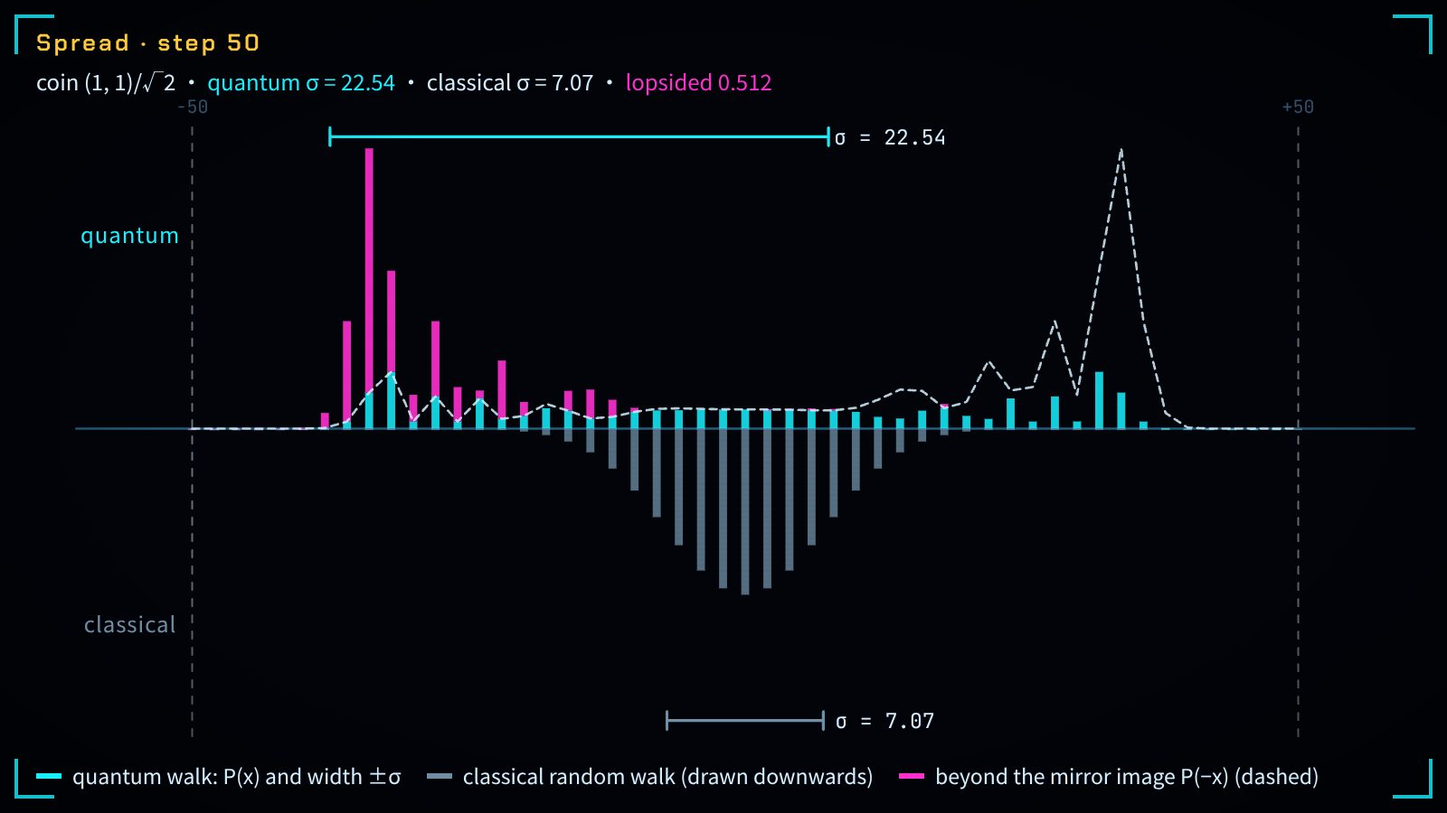
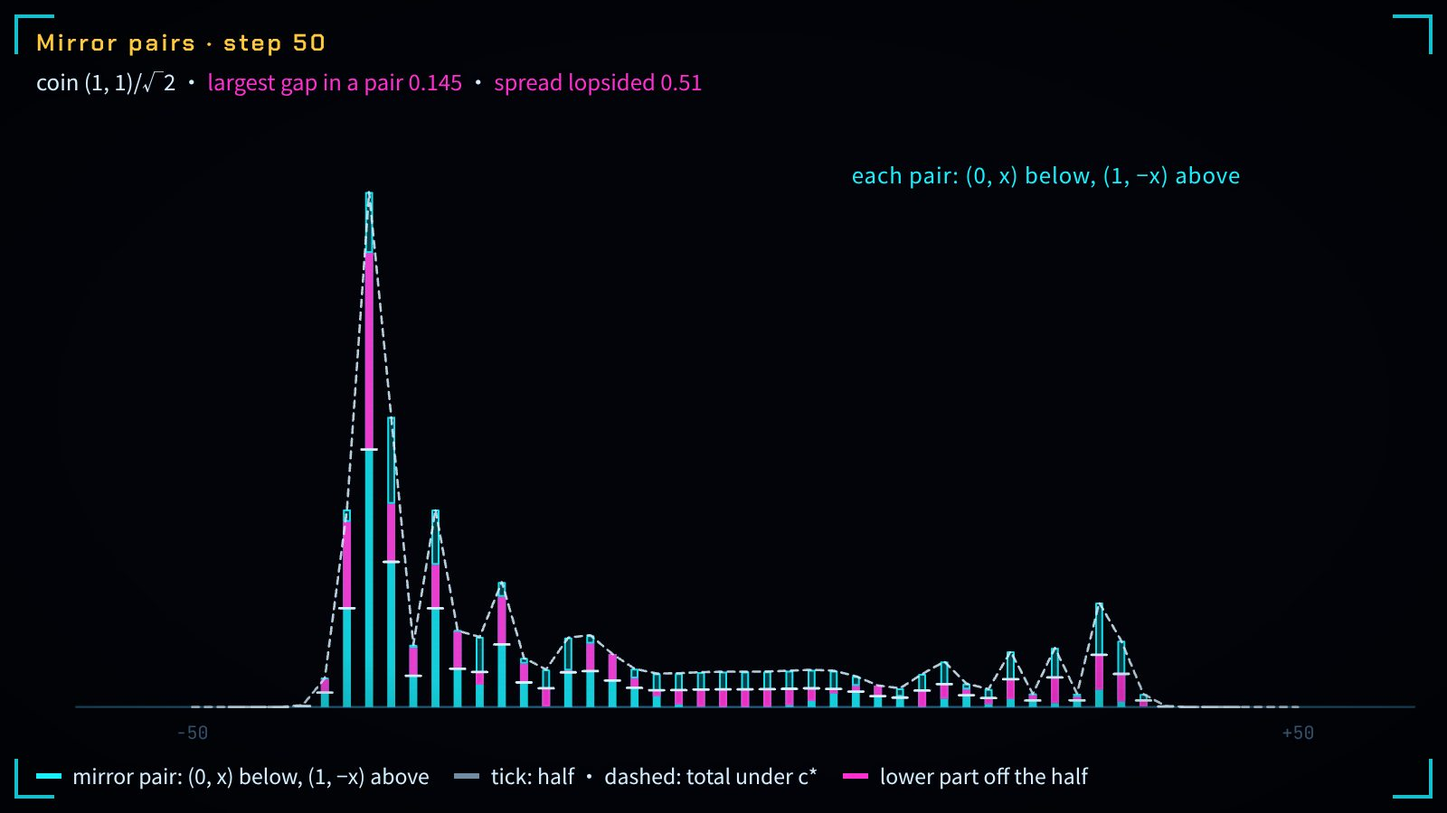
ch16: fold the ten-step walk card into fifty, a mirror-pair scene for the real coin, ring before the lemma, length-1 polytope card after the orbit item, full polytope lab at the chapter end, recurrence rhombus on the Chebyshev figure; card tables for chapters 15-16

diff --git a/books/quantum-geometry/viz/walk-spreading/main.js b/books/quantum-geometry/viz/walk-spreading/main.js
@@ -20,11 +20,12 @@
   /** The representative of x mod p in (−p/2, p/2]. */
   const rep = (x, p) => { const r = ((x % p) + p) % p; return r > p / 2 ? r - p : r; };
 
-  let RUN = null, runKey = '';
+  const RUNS = new Map();
   /** Every step 0 … NMAX for the current p and coin: quantum amplitudes (re, im per coin) and classical probabilities. */
-  function run() {
-    const c = coin(), p = S.p, key = `${p}|${c.join(',')}`;
-    if (key === runKey) return RUN;
+  const run = () => runFor(S.p, coin());
+  function runFor(p, c) {
+    const key = `${p}|${c.join(',')}`;
+    if (RUNS.has(key)) return RUNS.get(key);
     let re0 = new Float64Array(p), im0 = new Float64Array(p), re1 = new Float64Array(p), im1 = new Float64Array(p), cl = new Float64Array(p);
     re0[0] = c[0]; im0[0] = c[1]; re1[0] = c[2]; im1[0] = c[3]; cl[0] = 1;
     const steps = [];
@@ -39,9 +40,16 @@
       }
       re0 = a0; im0 = b0; re1 = a1; im1 = b1; cl = c2;
     }
-    RUN = { p, coin: c, steps };
-    runKey = key;
-    return RUN;
+    const R = { p, coin: c, steps };
+    if (RUNS.size > 24) RUNS.clear();
+    RUNS.set(key, R);
+    return R;
+  }
+  const STAR = [R2, 0, 0, R2];
+  /** The mirror pairs of one step: for each position x, [x, |ψ(0, x)|², |ψ(1, −x)|², the same pair's total under c*]. */
+  function pairsAt(n) {
+    const F = run().steps[n], G = runFor(S.p, STAR).steps[n], p = S.p;
+    return F.xs.map((x, i) => { const j = (p - i) % p; return [x, F.z0[i], F.z1[j], G.z0[i] + G.z1[j]]; });
   }
   /** What the page shows about one step: distributions by position, widths, mirror balance. */
   function facts(p, re0, im0, re1, im1, cl, n) {
@@ -133,6 +141,38 @@
     }
   }
 
+  /* the mirror pairs (0, x) and (1, −x): one bar per x, the two modes stacked, the half marked */
+  function drawPairs(W, H, F) {
+    const p = S.p, half = Math.floor(p / 2) + 0.5, n = F.n, thumb = TRV.thumbMode, pr = pairsAt(n);
+    const ymax = Math.max(1e-3, ...pr.map((r) => Math.max(r[1] + r[2], r[3]))) * 1.15;
+    const g = kit.plot($('cv'), { x: [-half, half], y: [-ymax * 0.06, ymax], pad: frame(W, H), clear: false });
+    const bw = Math.max(1, Math.min(14, g.scale * 0.72)), ctx = g.ctx;
+    g.line([[-half, 0], [half, 0]], P.lineHot, { width: 1.2 * TH });
+    const box = (x, y0, y1, color, alpha, stroke) => {
+      const a = g.Y(y0), b = g.Y(y1), top = Math.min(a, b), h = Math.abs(a - b);
+      if (h < 0.3) return;
+      ctx.globalAlpha = alpha; ctx.fillStyle = color; ctx.fillRect(g.X(x) - bw / 2, top, bw, h);
+      if (stroke) { ctx.globalAlpha = 0.9; ctx.strokeStyle = color; ctx.lineWidth = TH; ctx.strokeRect(g.X(x) - bw / 2 + 0.5, top + 0.5, bw - 1, h - 1); }
+      ctx.globalAlpha = 1;
+    };
+    pr.forEach(([x, a, b]) => {
+      const T = a + b;
+      if (T < 1e-9) return;
+      box(x, 0, a, P.cyan, 0.85);
+      box(x, a, T, P.cyan, 0.25, true);
+      if (Math.abs(a - T / 2) > 1e-9) box(x, a, T / 2, P.magenta, 0.9);
+      const yh = g.Y(T / 2), xc = g.X(x);
+      ctx.strokeStyle = P.ink; ctx.lineWidth = 1.4 * TH; ctx.beginPath(); ctx.moveTo(xc - bw / 2 - 2, yh); ctx.lineTo(xc + bw / 2 + 2, yh); ctx.stroke();
+    });
+    // the totals under c*: the same outline whatever the coin
+    const sil = pr.filter((r) => 2 * n >= p || (Math.abs(r[0]) <= n && (r[0] - n) % 2 === 0)).sort((u, v) => u[0] - v[0]).map((r) => [r[0], r[3]]);
+    g.line(sil, P.ink, { width: 1.3 * TH, dash: [4, 3], alpha: 0.85 });
+    if (!thumb) {
+      tagAt('pl', g, half * 0.45, ymax * 0.9, L('每一对：(0, x) 在下，(1, −x) 在上', 'each pair: (0, x) below, (1, −x) above'), 'raw cy', 0, 0);
+      if (2 * n < p && n > 0) { tagAt('cone', g, n, 0, `+${n}`, 'tick', 0, 14); tagAt('cone-', g, -n, 0, `−${n}`, 'tick', 0, 14); }
+    }
+  }
+
   function drawWidth(W, H) {
     const R = run(), n = stepN(), thumb = TRV.thumbMode;
     const ymax = Math.max(...R.steps.map((s) => Math.max(s.sigmaQ, s.sigmaC))) * 1.12 || 1;
@@ -155,7 +195,7 @@
   function drawStage() {
     const cv = $('cv'), W = cv.clientWidth, H = cv.clientHeight;
     stage.begin();
-    if (S.scene === 'width') drawWidth(W, H); else drawDist(W, H, now());
+    if (S.scene === 'width') drawWidth(W, H); else if (S.scene === 'pairs') drawPairs(W, H, now()); else drawDist(W, H, now());
     stage.end();
   }
 
@@ -173,8 +213,10 @@
   /* ---------- readouts, HUD, legend ---------- */
   function drawText() {
     const F = now(), n = F.n, ratio = n > 0 ? F.sigmaQ / F.sigmaC : null;
-    $('hudBig').innerHTML = S.scene === 'width' ? L(`宽度 · 走到第 ${n} 步`, `Width · step ${n}`) : L(`分布 · 第 ${n} 步`, `Spread · step ${n}`);
-    $('hudSub').innerHTML = S.scene === 'width'
+    $('hudBig').innerHTML = S.scene === 'width' ? L(`宽度 · 走到第 ${n} 步`, `Width · step ${n}`) : S.scene === 'pairs' ? L(`镜像对 · 第 ${n} 步`, `Mirror pairs · step ${n}`) : L(`分布 · 第 ${n} 步`, `Spread · step ${n}`);
+    $('hudSub').innerHTML = S.scene === 'pairs'
+      ? `${L('硬币', 'coin')} ${coinName()} · ${F.pairGap < 1e-12 ? L('每一对都均分', 'every pair split evenly') : `<span class="c-mg">${L('一对里最大的差', 'largest gap in a pair')} ${fix(F.pairGap, 3)}</span>`} · <span class="c-mg">${L('分布失衡', 'spread lopsided')} ${fix(F.imbalance, 2)}</span>`
+      : S.scene === 'width'
       ? `<span class="c-cy">${L('量子', 'quantum')} σ = ${fix(F.sigmaQ, 2)}</span> · ${L('经典', 'classical')} σ = ${fix(F.sigmaC, 2)}${n > 0 ? ` · ${L('比', 'ratio')} ${fix(ratio, 2)}` : ''}`
       : `${L('硬币', 'coin')} ${coinName()} · <span class="c-cy">${L('量子', 'quantum')} σ = ${fix(F.sigmaQ, 2)}</span> · ${L('经典', 'classical')} σ = ${fix(F.sigmaC, 2)}${F.imbalance > 1e-9 ? ` · <span class="c-mg">${L('失衡', 'lopsided')} ${fix(F.imbalance, 3)}</span>` : ''}`;
     $('roRatio').textContent = ratio == null ? '—' : fix(ratio, 2);
@@ -190,7 +232,9 @@
       : L(`这枚硬币没有均分镜像对：最大的一对差 ${fix(F.pairGap, 3)}，分布偏向${F.meanQ < 0 ? '左' : '右'}边，平均位置 ${fix(F.meanQ, 2)}。`, `This coin does not split the mirror pairs evenly: the largest gap is ${fix(F.pairGap, 3)}, and the distribution leans ${F.meanQ < 0 ? 'left' : 'right'}, with mean position ${fix(F.meanQ, 2)}.`);
     $('pillN').querySelector('strong').textContent = String(n);
     $('pillRatio').querySelector('strong').textContent = ratio == null ? '—' : fix(ratio, 2);
-    const items = S.scene === 'width'
+    const items = S.scene === 'pairs'
+      ? [['cy', '镜像对：(0, x) 在下，(1, −x) 在上', 'mirror pair: (0, x) below, (1, −x) above'], ['dm', '短横：一半 · 虚线：c* 下的总高', 'tick: half · dashed: total under c*'], ['mg', '下段离一半的差', 'lower part off the half']]
+      : S.scene === 'width'
       ? [['cy', '量子游走的宽度', 'width of the quantum walk'], ['dm', '经典随机游走的宽度', 'width of the classical walk'], ['am', '当前的步数', 'the current step']]
       : [['cy', '量子游走：P(x) 与宽度 ±σ', 'quantum walk: P(x) and width ±σ'], ['dm', '经典随机游走（向下画）', 'classical random walk (drawn downwards)']]
         .concat(F.imbalance > 1e-9 ? [['mg', '比镜像 P(−x) 多出的部分（虚线）', 'beyond the mirror image P(−x) (dashed)']] : []);
@@ -220,17 +264,15 @@
 
   /* ---------- experiment cards ---------- */
   const PRESETS = {
-    ten: { scene: 'dist', p: 121, w: 0.5, phi: 90, n: 10 },
     fifty: { scene: 'dist', p: 121, w: 0.5, phi: 90, n: 50 },
     width: { scene: 'width', p: 121, w: 0.5, phi: 90, n: 60 },
-    coin: { scene: 'dist', p: 121, w: 0.5, phi: 0, n: 50 },
+    coin: { scene: 'pairs', p: 121, w: 0.5, phi: 0, n: 50 },
     ring: { scene: 'dist', p: 9, w: 0.5, phi: 90, n: 20 }
   };
   const NOTES = {
-    ten: ['从原点出发、硬币取 c*，走 10 步：上方青色的量子分布左右对称，最高的两根柱在 ±6，全都落在虚线 ±10 之内；下方灰色的经典分布堆在中间。青色括号 ±σ 的 σ = 5.47，灰色的只有 √10 = 3.16。', 'From the origin with the coin c*, ten steps: above, the cyan quantum distribution is symmetric, its two tallest bars at ±6 and all of it inside the dashed lines ±10; below, the grey classical distribution piles up in the middle. The cyan bracket ±σ has σ = 5.47, the grey one only √10 = 3.16.'],
-    fifty: ['走 50 步：青色的两个尖峰已经跑到 ±34，灰色的钟形只铺开到 ±7 左右。量子宽度 σ = 27.07，经典 σ = √50 = 7.07，差了 3.83 倍。', 'Fifty steps: the two cyan peaks have run out to ±34, while the grey bell spreads only to about ±7. Quantum width σ = 27.07, classical σ = √50 = 7.07: 3.83 times apart.'],
+    fifty: ['从原点出发、硬币取 c*，走 50 步：上方青色的量子分布左右对称，两个尖峰已经跑到 ±34，全都落在虚线 ±50 之内；下方灰色的经典钟形只铺开到 ±7 左右。量子宽度 σ = 27.07，经典 σ = √50 = 7.07，差了 3.83 倍。', 'From the origin with the coin c*, fifty steps: above, the cyan quantum distribution is symmetric, its two peaks already out at ±34 and all of it inside the dashed lines ±50; below, the grey classical bell spreads only to about ±7. Quantum width σ = 27.07, classical σ = √50 = 7.07: 3.83 times apart.'],
     width: ['宽度随步数：青色的量子宽度是一条直线（σ ÷ n 停在 0.54 附近），灰色的经典宽度是 √n 的抛物线。走到 60 步是 32.5 对 7.75：在一条线上，两者之差是平方关系，不是指数。', 'Width against the steps: the cyan quantum width is a straight line (σ ÷ n stays near 0.54), the grey classical width the parabola √n. At 60 steps it is 32.5 against 7.75: on a line the gap between them is a square, not an exponential.'],
-    coin: ['换成实硬币 (1, 1)/√2，同样一半一半，只是没有那个 i：走 50 步，青色的分布偏向左边；虚线是它的镜像 P(−x) 的轮廓，品红是比镜像多出的部分，合计 0.51。', 'A real coin (1, 1)/√2, half and half as before but without the i: after fifty steps the cyan distribution leans left; the dashed outline is its mirror image P(−x), and magenta is what it has beyond them, 0.51 in all.'],
+    coin: ['证明里的那一对：每个位置 x 一根柱，下段是模式 (0, x) 的概率，上段是镜像模式 (1, −x) 的。换成实硬币 (1, 1)/√2，同样一半一半，只是没有那个 i，走 50 步：每一对的总高仍正好落在虚线上（虚线是 c* 下同一对的总高），可两段一高一低，品红是下段离一半的差，最大的一对两段相差 0.145。换回 c* 时两段等高，品红消失。', 'The pair from the proof: one bar per position x, the lower part the probability of the mode (0, x), the upper part that of its mirror mode (1, −x). With the real coin (1, 1)/√2, half and half as before but without the i, after fifty steps every pair still reaches exactly the dashed outline (the same pair\'s total under c*), but its two parts are unequal: magenta is how far the lower part is from the half, and the largest gap within a pair is 0.145. With c* the two parts are equal and the magenta is gone.'],
     ring: ['圈上只有 9 个点，硬币取 c*，走 20 步：游走早已绕回来，青色的柱和灰色的柱一样摊满了整圈，不再有往外跑的前沿；但青色的柱仍然左右成镜像，没有品红。', 'A cycle of only nine points, coin c*, twenty steps: the walk has long since wrapped round, and the cyan bars, like the grey ones, cover the whole ring with no front running outwards; yet the cyan bars are still mirror images of each other, with no magenta.']
   };
   let booting = true;
@@ -260,7 +302,7 @@
       return { scene: S.scene, p: S.p, w: S.w, phi: S.phi, coin: run().coin.slice(), t: clock.t, n: F.n, max: clock.max, playing: clock.playing, preset: cards.current,
         xs: F.xs.slice(), q: F.q.slice(), k: F.k.slice(), z0: F.z0.slice(), z1: F.z1.slice(),
         sigmaQ: F.sigmaQ, sigmaC: F.sigmaC, meanQ: F.meanQ, imbalance: F.imbalance, pairGap: F.pairGap, total: F.total, ctotal: F.ctotal,
-        widths: run().steps.map((s) => [s.sigmaQ, s.sigmaC]), imbalances: run().steps.map((s) => s.imbalance) };
+        widths: run().steps.map((s) => [s.sigmaQ, s.sigmaC]), imbalances: run().steps.map((s) => s.imbalance), pairs: pairsAt(F.n) };
     },
     seek: (t) => { clock.pause(); stopAt = null; clock.set(t); }
   };

diff --git a/books/quantum-geometry/viz/walk-spreading/index.html b/books/quantum-geometry/viz/walk-spreading/index.html
@@ -36,10 +36,9 @@
     <section class="panel sec">
       <h2><span class="zh">实验卡带</span><span class="en">Experiments</span><span class="aside">PRESETS</span></h2>
       <div class="presets cards" id="presets">
-        <button class="preset" data-preset="ten" aria-pressed="false"><span class="code">TEN-STEPS</span><span class="cn zh">走 10 步：两侧各一个尖峰</span><span class="cn en">Ten steps: a peak on either side</span></button>
         <button class="preset" data-preset="fifty" aria-pressed="false"><span class="code">FIFTY-STEPS</span><span class="cn zh">走 50 步：宽度差近四倍</span><span class="cn en">Fifty steps: nearly four times as wide</span></button>
         <button class="preset" data-preset="width" aria-pressed="false"><span class="code">WIDTH</span><span class="cn zh">宽度：一条直线，一条 √n</span><span class="cn en">Width: a straight line and a √n</span></button>
-        <button class="preset" data-preset="coin" aria-pressed="false"><span class="code">REAL-COIN</span><span class="cn zh">硬币 (1, 1)/√2：偏向一边</span><span class="cn en">Coin (1, 1)/√2: tilted to one side</span></button>
+        <button class="preset" data-preset="coin" aria-pressed="false"><span class="code">REAL-COIN</span><span class="cn zh">硬币 (1, 1)/√2：每一对镜像模式一高一低</span><span class="cn en">Coin (1, 1)/√2: each mirror pair split unevenly</span></button>
         <button class="preset" data-preset="ring" aria-pressed="false"><span class="code">RING-9</span><span class="cn zh">九个点的圈：绕回来，仍是镜像</span><span class="cn en">A ring of nine: wrapped round, still a mirror</span></button>
       </div>
       <p class="note" id="presetNote"></p>
@@ -73,6 +72,7 @@
       <div class="hud-tr chips" id="sceneChips" role="group" aria-label="场景" data-aria-en="Scene">
         <button class="chip" data-scene="dist" aria-pressed="true"><span class="zh">分布</span><span class="en">Spread</span></button>
         <button class="chip" data-scene="width" aria-pressed="false"><span class="zh">宽度</span><span class="en">Width</span></button>
+        <button class="chip" data-scene="pairs" aria-pressed="false"><span class="zh">镜像对</span><span class="en">Pairs</span></button>
       </div>
       <div class="hud-bl" id="legend"></div>
       <div class="toast" id="toast" role="status" aria-live="polite"></div>

diff --git a/books/quantum-geometry/figures/ch16-chebyshev-shadows.py b/books/quantum-geometry/figures/ch16-chebyshev-shadows.py
@@ -11,11 +11,13 @@ import math
 SIZE = (500, 280)
 ALT = {
     "zh": "上半个单位圆，圆心在横轴上。四支箭头从圆心出发，依次与横轴正向成 0°、60°、120°、180°，相邻两支之间是紫色的角 θ = 60°，"
-          "最后一支 m = 3 是琥珀色的。每支箭头的尖端向横轴作虚线垂线，落脚处的青色点就是它的影子，标为 T₀ = 1、T₁ = ½、T₂ = −½、T₃ = −1。",
+          "最后一支 m = 3 是琥珀色的。每支箭头的尖端向横轴作虚线垂线，落脚处的青色点就是它的影子，标为 T₀ = 1、T₁ = ½、T₂ = −½、T₃ = −1。"
+          "两条紫色虚线把第 0 支与第 2 支箭头补成菱形，对角线的顶点正是第 1 支箭头的尖端；左上角写着 T₀ + T₂ = 2x T₁，即 1 − ½ = 2 · ½ · ½。",
     "en": "The upper half of a unit circle centred on the horizontal axis. Four arrows leave the centre at 0°, 60°, 120° and "
           "180° from the positive axis; neighbouring arrows are separated by the violet angle θ = 60°, and the last one, "
           "m = 3, is amber. A dashed perpendicular drops from each tip to the axis, and the cyan dot at its foot is the arrow's "
-          "shadow, labelled T₀ = 1, T₁ = ½, T₂ = −½, T₃ = −1.",
+          "shadow, labelled T₀ = 1, T₁ = ½, T₂ = −½, T₃ = −1. Two violet dashed lines complete arrows 0 and 2 into a rhombus whose "
+          "diagonal ends at the tip of arrow 1; the top left reads T₀ + T₂ = 2x T₁, that is 1 − ½ = 2 · ½ · ½.",
 }
 
 THETA = 60
@@ -40,6 +42,16 @@ def draw(fig):
     for m in range(1, 4):
         fig.angle(cx, cy, 40, (m - 1) * THETA, m * THETA, "*θ*", color="axis", width=2.0)
 
+    # the recurrence as a rhombus: arrow 0 + arrow 2 = 2 cos θ · arrow 1, so the shadows give T₀ + T₂ = 2x T₁
+    P = [(math.cos(math.radians(m * THETA)), math.sin(math.radians(m * THETA))) for m in range(4)]
+    diag = (P[0][0] + P[2][0], P[0][1] + P[2][1])
+    k = 2 * math.cos(math.radians(THETA))
+    assert abs(diag[0] - k * P[1][0]) < 1e-12 and abs(diag[1] - k * P[1][1]) < 1e-12
+    assert abs((tm[0] + tm[2]) / 2 - 2 * 0.5 * tm[1] / 2) < 1e-12
+    S = lambda v: (cx + R * v[0], cy - R * v[1])
+    fig.line(*S(P[0]), *S(diag), "axis", 1.8, dash="6 4")
+    fig.line(*S(P[2]), *S(diag), "axis", 1.8, dash="6 4")
+
     for m in range(4):
         a = math.radians(m * THETA)
         tx, ty = cx + R * math.cos(a), cy - R * math.sin(a)
@@ -52,6 +64,8 @@ def draw(fig):
             fig.text(lx, ly, f"*m* = {m}", size=14, color="dim", anchor="middle", middle=True)
         fig.dot(tx, cy, 5.4, "line", ring="bg")
         fig.text(tx, cy + 24, f"*T*_{{{m}}} = {VALUES[m]}", size=14, color="line", anchor="middle")
-    fig.text(cx + R, cy - 14, "*m* = 0", size=14, color="dim", anchor="end")
+    fig.text(cx + R + 4, cy - 16, "*m* = 0", size=14, color="dim")
     fig.text(cx - R, cy - 14, "*m* = 3", size=14, color="now")
     fig.text(cx, cy + 58, t("*x* = cos *θ* = ½", "*x* = cos *θ* = ½"), size=14, color="dim", anchor="middle")
+    fig.text(14, 24, "*T*_{0} + *T*_{2} = 2*x* *T*_{1}", size=14, color="axis")
+    fig.text(14, 44, "1 − ½ = 2 · ½ · ½", size=14, color="axis")

diff --git a/books/quantum-geometry/zh/ch16-qsvt-walks-and-compilation.md b/books/quantum-geometry/zh/ch16-qsvt-walks-and-compilation.md
@@ -60,7 +60,7 @@ $$
 它的两个特征值恰为 $a = e^{i\theta}$ 与 $b = e^{-i\theta}$（满足 $\det W(x) = ab = 1$，$\Tr W(x) = a + b = 2x$），因此每将 $W(x)$ 迭代乘 $m$ 次，其左上角矩阵元便直接吐出 $T_m(x) = \cos(m\theta)$！
 
 ::: {.figure src="ch16-chebyshev-shadows"}
-**转 $m$ 次，影子就是 $T_m(x)$。** 取 $x = \cos\theta = \frac{1}{2}$（$\theta = 60^\circ$）：四支箭头依次转过紫色的角 $\theta$，停在 $0^\circ$、$60^\circ$、$120^\circ$ 与琥珀色的 $180^\circ$；它们落在横轴上的青色影子依次是 $T_0 = 1$、$T_1 = \frac{1}{2}$、$T_2 = -\frac{1}{2}$、$T_3 = -1$，与 [@thm-chebyshev-trace-recurrence] 的递推逐项相符。
+**转 $m$ 次，影子就是 $T_m(x)$。** 取 $x = \cos\theta = \frac{1}{2}$（$\theta = 60^\circ$）：四支箭头依次转过紫色的角 $\theta$，停在 $0^\circ$、$60^\circ$、$120^\circ$ 与琥珀色的 $180^\circ$；它们落在横轴上的青色影子依次是 $T_0 = 1$、$T_1 = \frac{1}{2}$、$T_2 = -\frac{1}{2}$、$T_3 = -1$，与 [@thm-chebyshev-trace-recurrence] 的递推逐项相符。两条紫色虚线把第 $0$ 支与第 $2$ 支箭头补成菱形，对角线是第 $1$ 支箭头的 $2\cos\theta = 2x$ 倍（这里正好落在它的尖端上），影子随之给出 $T_0 + T_2 = 2xT_1$，即 $1 - \frac{1}{2} = 2 \cdot \frac{1}{2} \cdot \frac{1}{2}$。
 :::
 
 **严格的理论边界**：必须明确指出，[@thm-chebyshev-trace-recurrence] 的前提仅涉及任意交换环 $R$ 中的标量对 $ab = 1$，完全不包含矩阵块编码、奇异值谱或相位角序列的假设；将标量递推接到二维旋转块 $W(x) \in \mathrm{SU}(2)$ 是上述显式手算桥接，而非由 [@thm-chebyshev-trace-recurrence] 直接证出完整的量子奇异值变换（QSVT）定理。尤其不能误以为仅凭该递推就能把“任意多项式”塞进量子电路（完整 QSVT 的多项式可实现性定理详见下文 [@rem-qsvt-walks-literature]）。
@@ -90,10 +90,9 @@ $$
 \mathrm{cStar} = c_* = \begin{pmatrix} 1/\sqrt{2} \\ i/\sqrt{2} \end{pmatrix}.
 $$
 
-::: {.viz src="walk-spreading" preset="ten" height="500"}
-**同一个原点，两种走法。** 从原点出发、硬币取 $c_*$，按上面的单步规则走 $10$ 步：上方青色的量子分布左右对称，最高的两根柱在 $\pm 6$，全都落在虚线 $\pm 10$ 之内；下方灰色的经典随机游走堆在中间。青色括号的宽度 $\sigma = 5.47$，灰色的只有 $\sqrt{10} = 3.16$。
+::: {.viz src="walk-spreading" preset="fifty" height="500"}
+**同一个原点，两种走法；走 50 步，宽度差近四倍。** 从原点出发、硬币取 $c_*$，按上面的单步规则走 $50$ 步：上方青色的量子分布左右对称，两个尖峰已经跑到 $\pm 34$，全都落在虚线 $\pm 50$ 之内；下方灰色的经典随机游走只铺开到 $\pm 7$ 左右。量子宽度 $\sigma = 27.07$，经典 $\sigma = \sqrt{50} = 7.07$。
 :::
-
 为了衡量 $n$ 步游走波函数在全部位置与硬币模式 $\iota = \mathrm{Fin}\,2 \times \mathrm{ZMod}\,p$ 上展开的多模相干纠缠度，源码将归一化模式振幅 $\lambda : \iota \to \mathbb{C}$ 映射为全体模式上的单激发 W 态 $\mathrm{wState}(\lambda)$（在布尔占据配置 $s : \iota \to \mathrm{Bool}$ 上，当且仅当恰好仅有一个模式 $k \in \iota$ 为 `true` 时取振幅 $\lambda_k$，其余配置取 $0$），定义逐模式乘积态 $\mathrm{productState}(z)(s) = \prod_{k \in \iota} z_k(\text{if } s_k \text{ then } 1 \text{ else } 0)$（其中每个局部因子 $z_k$ 满足 `UnitSpinor (z k)`，记作 `unitFactors z`），并以模式振幅 $\lambda : \iota \to \mathbb{C}$ 为第一宗量、局部旋量族 $z : \iota \to \mathrm{Fin}\,2 \to \mathbb{C}$ 为第二宗量定义内积重叠辅助函数及最大重叠模平方：
 
 $$
@@ -105,6 +104,11 @@ $$
 $$
 
 下面的引理（在源码中声明头写为 `theorem result : claim`）证明：对一切圈长 $p \ge 1$、一切演化步数 $n \in \mathbb{N}$ 以及一切单位硬币初态 $c$，对称硬币 $\mathrm{cStar} = (1, i)/\sqrt{2}$ 恒使游走态的多模单激发几何纠缠达到最大值！
+
+::: {.viz src="walk-spreading" preset="ring" height="500"}
+**绕回来，镜像还在。** 圈上只有 $p = 9$ 个点，硬币取 $c_*$，走 $20$ 步：游走早已绕回来，青色的柱和灰色的柱一样摊满整圈，不再有往外跑的前沿；但青色的柱仍然左右成镜像，没有品红。[@lemma-symmetric-coin-walk] 对一切圈长 $p \ge 1$ 与一切步数 $n$ 成立。
+:::
+
 
 ::: {.lemma #lemma-symmetric-coin-walk title="循环图 Hadamard 量子游走中对称硬币最大化多模几何纠缠引理" lean="D5/S3/Quantum/Walks/SymmetricCoinMaximalWalkEntanglement.result"}
 源码声明 `theorem result : claim` 中的命题 `claim` 完整展开如下：对任意自然数 $p \in \mathbb{N}$（满足 $1 \le p$，由此赋予 `NeZero p`）、任意步数 $n \in \mathbb{N}$ 以及任意硬币旋量 $c : \mathrm{Fin}\,2 \to \mathbb{C}$，若 $c$ 满足单位归一化条件 `UnitSpinor c`，则恒有
@@ -119,21 +123,12 @@ $$
 :::
 
 ::: {.viz src="walk-spreading" preset="coin" height="500"}
-**一半一半还不够，要那个 $i$。** 换成同样一半一半的实硬币 $(1, 1)/\sqrt{2}$，走 $50$ 步：青色的分布偏向左边，虚线是它的镜像 $P(-x)$ 的轮廓，品红是比镜像多出的部分，合计 $0.51$。硬币取 $c_*$ 时品红消失：镜像对 $(0, x)$ 与 $(1, -x)$ 的概率之和与硬币无关，$c_*$ 把每一对均分（上面证明梗概里的一步）。图里画的是分布，不是 [@lemma-symmetric-coin-walk] 所说的几何纠缠。
+**一半一半还不够，要那个 $i$。** 证明梗概里的那一对：每个位置 $x$ 一根柱，下段是模式 $(0, x)$ 的概率，上段是镜像模式 $(1, -x)$ 的概率，短横标出一半。换成同样一半一半的实硬币 $(1, 1)/\sqrt{2}$，走 $50$ 步：每一对的总高仍正好落在虚线上（虚线是硬币取 $c_*$ 时同一对的总高），两段却一高一低，品红是下段离一半的差，一对里两段最多差 $0.145$。硬币取 $c_*$ 时两段等高，品红消失。图里画的是概率，不是 [@lemma-symmetric-coin-walk] 所说的几何纠缠。
 :::
-
-::: {.viz src="walk-spreading" preset="ring" height="500"}
-**绕回来，镜像还在。** 圈上只有 $p = 9$ 个点，硬币取 $c_*$，走 $20$ 步：游走早已绕回来，青色的柱和灰色的柱一样摊满整圈，不再有往外跑的前沿；但青色的柱仍然左右成镜像，没有品红。[@lemma-symmetric-coin-walk] 对一切圈长 $p \ge 1$ 与一切步数 $n$ 成立。
-:::
-
 在理解 [@lemma-symmetric-coin-walk] 时，必须严格划清两条概念边界：
 
 1. **多模单激发 W 态几何纠缠 vs 硬币—位置二分约化熵**：定理中的 `geometricEntanglement` 是把全部 $2p$ 个（硬币 $\times$ 位置）模式视作单粒子占据模，计算单激发 W 态相对于 $2p$ 个模式逐模乘积态的几何纠缠 $1 - \mathrm{gMax}$，**绝不能将其篡改或简写为通常教材里的“硬币对位置求偏迹后的二分冯·诺依曼纠缠熵”**。
 2. **量子游走不等于“无条件消除一切回头路或迷宫指数加速”**：[@lemma-symmetric-coin-walk] 刻画的是有限圈图 $\mathrm{ZMod}\,p$ 上硬币初态相位对模式分布对称性的影响，它**并不证明**量子游走在任意图或迷宫上都具有指数加速，也**不意味着**相消干涉能让任意图上的所有回头路振幅恒等于零，更不是黏合树（glued trees）黑盒分离定理本身。
-
-::: {.viz src="walk-spreading" preset="fifty" height="500"}
-**走 50 步，宽度差近四倍。** 青色的两个尖峰已经跑到 $\pm 34$，灰色的钟形只铺开到 $\pm 7$ 左右：量子宽度 $\sigma = 27.07$，经典 $\sigma = \sqrt{50} = 7.07$。
-:::
 
 ::: {.viz src="walk-spreading" preset="width" height="500"}
 **一条直线对一条 $\sqrt{n}$。** 宽度随步数：青色的量子宽度是一条直线（$\sigma / n$ 停在 $0.54$ 附近），灰色的经典宽度是 $\sqrt{n}$；走到 $60$ 步是 $32.5$ 对 $7.75$。在一条线上，两者之差是平方关系，不是指数；黏合树上的指数分离与一般图的界见 [@rem-qsvt-walks-literature] 第 2 条（文献结果，未在本书形式化），图中曲线是页面的数值。
@@ -208,6 +203,11 @@ $$
    $$
 
    注意两点：(i) $\mathcal{S}_L$ 只是**固定初态 $\vv{r}_0$ 的单态可达轨迹点集**，而不是三参数门算子全空间；(ii) 采用 $|w| \le L$（而非 $|w| = L$）才保证单调嵌套 $\mathcal{S}_L \subseteq \mathcal{S}_{L+1}$，且点数满足上界 $|\mathcal{S}_L| \le \sum_{j=0}^L 2^j = 2^{L+1} - 1$（由于代数关系如 $H^2 = I$ 及稳定子不动点会产生碰撞重复，实际点数严格小于该上界）。
+
+::: {.viz src="gate-word-polytope" preset="one" height="500"}
+**门长 1：一条线段。** 北极是 $T$ 的不动点，只有 $H$ 把它送到 $\vv{e}_x$：两个青色的点只连成一条线段，还谈不上多面体。琥珀色的目标落在 $\vv{e}_x$ 上，门字 $H$ 精确命中，没有品红的缺口；紫色是 $H$ 与 $T$ 的转轴。
+:::
+
 3. **欧氏凸多面体 $P_L = \operatorname{conv}(\mathcal{S}_L)$ 与测地多面体网格**：取有限点集 $\mathcal{S}_L$ 在 $\mathbb{R}^3$ 中的欧氏凸包
 
    $$
@@ -215,10 +215,6 @@ $$
    $$
 
    这是一座内接于单位球体的有限顶点凸多面体。当 $L$ 很小时（如 $L = 0, 1, 2$），$P_L$ 退化为单点、线段或平面多边形（绝不能声称对每一个 $L$，$P_L$ 都已经是满三维多面体！）。当 $P_L$ 达到满三维时，它的每一个二维面（facet）都是削过球体内部的**平直欧氏弦面（flat chordal polygon）**——绝不能把这些欧氏平面多边形称作“球面 $S^2$ 上本身平坦的面”。当 $L$ 足够大使得球心落入多面体内部（$0 \in \operatorname{int} P_L$）时，将 $P_L$ 的棱与面沿径向投影（radial projection）回球皮 $S^2$，平直棱投影为大圆劣弧，便在 $S^2$ 上切出一张球面三角/多边形网格，通常称为“**测地多面体（geodesic polytope）**”（注意该术语仅指径向投影到球面上的大圆弧网格，而 $\operatorname{conv}(\mathcal{S}_L)$ 本身始终是欧氏平直多面体）。
-
-::: {.viz src="gate-word-polytope" preset="one" height="500"}
-**门长 1：一条线段。** 北极是 $T$ 的不动点，只有 $H$ 把它送到 $\vv{e}_x$：两个青色的点只连成一条线段，还谈不上多面体。琥珀色的目标落在 $\vv{e}_x$ 上，门字 $H$ 精确命中，没有品红的缺口；紫色是 $H$ 与 $T$ 的转轴。
-:::
 
 ::: {.viz src="gate-word-polytope" preset="six" height="500"}
 **门长 6：包住球心，投回球皮。** $19$ 个可达点的凸包已经包住球心，把它的棱沿半径投到球皮上，就成了一张青色的大圆弧网格（测地多面体）。网格里最大的洞是品红虚线圈住的空球冠，半径 $\varepsilon_6 = 47.27^\circ$，琥珀色的箭头指着它的中心。这里画的是有限门字在球面上的落点，不是 [第二十一章](ch21-diagonalization-and-escape.md) 平面割圆里的多边形。
@@ -435,8 +431,9 @@ $$
 **最大的缺口一级级缩小，却补不上。** 门长从 $0$ 走到 $20$：青色的可达点一层层变密，品红虚线圈出的最大空球冠从 $180^\circ$ 缩到 $\varepsilon_{20} = 9.10^\circ$，有几层一点也不缩；到 $L = 20$ 有 $971$ 个点，洞仍然在。旁边品红的台阶是页面对每个 $L$ 实算的覆盖半径 $\varepsilon_L$（琥珀色的是 $L = 20$），不拟合任何渐近速率；渐近字长是 [@rem-solovay-kitaev-literature] 的文献结果。
 :::
 
+至此，第四部“高维球体——纠缠、拓扑与量子算法”的四章旅程全部合拢：我们从双比特 $6 + 9 = 15$ 的关联扇区与贝尔 $45^\circ$ 余弦破缺（[第十三章](ch13-entanglement-and-chsh.md)）出发，用泡利稳定子与架编织把脆弱的局部线藏进正交综合征子空间（[第十四章](ch14-cloning-codes-and-braids.md)），在不变平面旋转与有限群对偶零化子相消中看清了 Grover 与 Shor 算法的几何引擎（[第十五章](ch15-grover-qft-and-period-finding.md)），最终在切比雪夫递推与三维割圆多面体 $P_L$ 中直面了有限离散门字逼近连续球面的永恒残差 $\varepsilon_L > 0$（本章）。正是这道在任何有限步内都无法彻底抹平的多面体缝隙，为我们打开了通往第五部与第六部——时空与观察者复杂性、不完备性对角线逃逸与余弦自指不动点（其经典分析与算术性质见[第二十四章](ch24-cosine-fixed-points-and-self-reference.md) [@rem-banach-dottie-hairy-ball-literature]）——的深层大门。
+
 ::: {.viz src="gate-word-polytope" height="560"}
 **门字多面体实验室。** 拖时间轴改门长 $L$，在球上拖动琥珀色的目标，或换成最坏方向：青色是长度不超过 $L$ 的 $\{H, T\}$ 门字的落点与它们的凸包，品红是到最近可达点的弧、径向间隙与空球冠。绿色框是 [@prop-two-axis-finite-word]，作为连续轴圆的对照；其余都是页面的数值。
 :::
 
-至此，第四部“高维球体——纠缠、拓扑与量子算法”的四章旅程全部合拢：我们从双比特 $6 + 9 = 15$ 的关联扇区与贝尔 $45^\circ$ 余弦破缺（[第十三章](ch13-entanglement-and-chsh.md)）出发，用泡利稳定子与架编织把脆弱的局部线藏进正交综合征子空间（[第十四章](ch14-cloning-codes-and-braids.md)），在不变平面旋转与有限群对偶零化子相消中看清了 Grover 与 Shor 算法的几何引擎（[第十五章](ch15-grover-qft-and-period-finding.md)），最终在切比雪夫递推与三维割圆多面体 $P_L$ 中直面了有限离散门字逼近连续球面的永恒残差 $\varepsilon_L > 0$（本章）。正是这道在任何有限步内都无法彻底抹平的多面体缝隙，为我们打开了通往第五部与第六部——时空与观察者复杂性、不完备性对角线逃逸与余弦自指不动点（其经典分析与算术性质见[第二十四章](ch24-cosine-fixed-points-and-self-reference.md) [@rem-banach-dottie-hairy-ball-literature]）——的深层大门。

diff --git a/books/quantum-geometry/en/ch16-qsvt-walks-and-compilation.md b/books/quantum-geometry/en/ch16-qsvt-walks-and-compilation.md
@@ -60,7 +60,7 @@ $$
 has eigenvalues $a = e^{i\theta}$ and $b = e^{-i\theta}$ ($\det W(x) = ab = 1$, $\Tr W(x) = 2x$), so its $m$-th power $W(x)^m$ carries $T_m(x) = \cos(m\theta)$ in its top-left entry!
 
 ::: {.figure src="ch16-chebyshev-shadows"}
-**Turn $m$ times and the shadow is $T_m(x)$.** Take $x = \cos\theta = \frac{1}{2}$ ($\theta = 60^\circ$): four arrows, each turned one more violet angle $\theta$, stop at $0^\circ$, $60^\circ$, $120^\circ$ and the amber $180^\circ$. Their cyan shadows on the axis are $T_0 = 1$, $T_1 = \frac{1}{2}$, $T_2 = -\frac{1}{2}$ and $T_3 = -1$, matching the recurrence of [@thm-chebyshev-trace-recurrence] term by term.
+**Turn $m$ times and the shadow is $T_m(x)$.** Take $x = \cos\theta = \frac{1}{2}$ ($\theta = 60^\circ$): four arrows, each turned one more violet angle $\theta$, stop at $0^\circ$, $60^\circ$, $120^\circ$ and the amber $180^\circ$. Their cyan shadows on the axis are $T_0 = 1$, $T_1 = \frac{1}{2}$, $T_2 = -\frac{1}{2}$ and $T_3 = -1$, matching the recurrence of [@thm-chebyshev-trace-recurrence] term by term. Two violet dashed lines complete arrows $0$ and $2$ into a rhombus whose diagonal is $2\cos\theta = 2x$ times arrow $1$ (here it ends exactly at its tip), so the shadows give $T_0 + T_2 = 2xT_1$, that is $1 - \frac{1}{2} = 2 \cdot \frac{1}{2} \cdot \frac{1}{2}$.
 :::
 
 **Strict mathematical boundary**: [@thm-chebyshev-trace-recurrence] is a scalar recurrence in an arbitrary commutative ring $R$ with $ab = 1$ and makes no assumptions about matrices, singular values, or phase sequences; connecting it to $W(x) \in \mathrm{SU}(2)$ is an explicit hand calculation, not a formalization of the full QSVT theorem. In particular, one cannot realize an arbitrary polynomial from this recurrence alone (the polynomial realizability conditions for full QSVT are recorded in [@rem-qsvt-walks-literature]).
@@ -90,10 +90,9 @@ $$
 \mathrm{cStar} = c_* = \begin{pmatrix} 1/\sqrt{2} \\ i/\sqrt{2} \end{pmatrix}.
 $$
 
-::: {.viz src="walk-spreading" preset="ten" height="500"}
-**One origin, two ways to walk.** From the origin with the coin $c_*$, ten steps of the rule above: the cyan quantum distribution above is symmetric, its two tallest bars at $\pm 6$ and all of it inside the dashed lines $\pm 10$; the grey classical random walk below piles up in the middle. The cyan bracket has width $\sigma = 5.47$, the grey one only $\sqrt{10} = 3.16$.
+::: {.viz src="walk-spreading" preset="fifty" height="500"}
+**One origin, two ways to walk; after fifty steps, nearly four times as wide.** From the origin with the coin $c_*$, fifty steps of the rule above: the cyan quantum distribution above is symmetric, its two peaks already out at $\pm 34$ and all of it inside the dashed lines $\pm 50$; the grey classical random walk below spreads only to about $\pm 7$. Quantum width $\sigma = 27.07$, classical $\sigma = \sqrt{50} = 7.07$.
 :::
-
 To quantify multi-mode entanglement across the entire mode set $\iota = \mathrm{Fin}\,2 \times \mathrm{ZMod}\,p$, the source maps any amplitude profile $\lambda : \iota \to \mathbb{C}$ to the single-excitation W-state `wState(λ)` on Boolean occupation configurations $s : \iota \to \mathrm{Bool}$ (assigning $\lambda_k$ when $s$ is `true` at $k$ alone and $0$ otherwise), defines modewise product states $\mathrm{productState}(z)(s) = \prod_{k \in \iota} z_k(\text{if } s_k \text{ then } 1 \text{ else } 0)$ over tuples of unit spinors `unitFactors z`, and defines the inner-product overlap helper $\mathrm{overlap}(\lambda, z)$ (taking the amplitude profile $\lambda : \iota \to \mathbb{C}$ first and the spinor family $z : \iota \to \mathrm{Fin}\,2 \to \mathbb{C}$ second) and maximum squared overlap:
 
 $$
@@ -105,6 +104,11 @@ $$
 $$
 
 The next lemma (whose source header is `theorem result : claim`) proves that for every $p \ge 1$, every step count $n \in \mathbb{N}$, and every unit coin spinor $c$, the symmetric coin $\mathrm{cStar} = (1, i)/\sqrt{2}$ maximizes `geometricEntanglement`.
+
+::: {.viz src="walk-spreading" preset="ring" height="500"}
+**Wrapped round, still a mirror.** A cycle of only $p = 9$ points, coin $c_*$, twenty steps: the walk has long since wrapped round, and the cyan bars, like the grey ones, cover the whole ring with no front running outwards; yet they are still mirror images of each other, with no magenta. [@lemma-symmetric-coin-walk] holds for every cycle length $p \ge 1$ and every number of steps $n$.
+:::
+
 
 ::: {.lemma #lemma-symmetric-coin-walk title="The Symmetric Coin Maximizes Multi-Mode Geometric Entanglement in the Cycle Hadamard Walk" lean="D5/S3/Quantum/Walks/SymmetricCoinMaximalWalkEntanglement.result"}
 Unfolding `claim` in the declaration `theorem result : claim`: for every $p \in \mathbb{N}$ with $1 \le p$ (supplying `NeZero p`), every step count $n \in \mathbb{N}$, and every coin spinor $c : \mathrm{Fin}\,2 \to \mathbb{C}$ satisfying `UnitSpinor c`,
@@ -119,21 +123,12 @@ In `SymmetricCoinMaximalWalkEntanglement`, `walk_linearity` and `walk_reflection
 :::
 
 ::: {.viz src="walk-spreading" preset="coin" height="500"}
-**Half and half is not enough; it takes the $i$.** A real coin $(1, 1)/\sqrt{2}$, half and half as well, for fifty steps: the cyan distribution leans left, the dashed outline is its mirror image $P(-x)$, and magenta is what it has beyond them, $0.51$ in all. With the coin $c_*$ the magenta is gone: the probabilities of a mirror pair $(0, x)$ and $(1, -x)$ add up to the same total whatever the coin, and $c_*$ splits every pair evenly (a step of the proof sketch above). The figure shows distributions, not the geometric entanglement of [@lemma-symmetric-coin-walk].
+**Half and half is not enough; it needs the $i$.** The pair from the proof sketch: one bar per position $x$, its lower part the probability of the mode $(0, x)$, its upper part that of the mirror mode $(1, -x)$, with a tick at the half. With the real coin $(1, 1)/\sqrt{2}$, half and half as before, after fifty steps every pair still reaches exactly the dashed outline (the same pair's total with the coin $c_*$), but its two parts are unequal: magenta is how far the lower part is from the half, and within a pair the two parts differ by at most $0.145$. With $c_*$ the two parts are equal and the magenta is gone. The figure shows probabilities, not the geometric entanglement of [@lemma-symmetric-coin-walk].
 :::
-
-::: {.viz src="walk-spreading" preset="ring" height="500"}
-**Wrapped round, still a mirror.** A cycle of only $p = 9$ points, coin $c_*$, twenty steps: the walk has long since wrapped round, and the cyan bars, like the grey ones, cover the whole ring with no front running outwards; yet they are still mirror images of each other, with no magenta. [@lemma-symmetric-coin-walk] holds for every cycle length $p \ge 1$ and every number of steps $n$.
-:::
-
 Two strict boundaries apply to [@lemma-symmetric-coin-walk]:
 
 1. **All-mode single-excitation W-state geometric entanglement versus coin–position bipartite entropy**: Here `geometricEntanglement` measures the single-excitation W-state across all $2p$ modes $\iota = \mathrm{Fin}\,2 \times \mathrm{ZMod}\,p$ relative to modewise product states (`1 - gMax`); it is **not** the reduced von Neumann entropy of the coin after tracing out position.
 2. **Scope of quantum-walk interference**: [@lemma-symmetric-coin-walk] analyzes coin-phase symmetry on the cycle $\mathrm{ZMod}\,p$; it does **not** prove exponential speedup on general mazes, does **not** imply that all backtracking paths cancel to zero on arbitrary graphs, and is **not** the glued-trees oracle separation theorem.
-
-::: {.viz src="walk-spreading" preset="fifty" height="500"}
-**Fifty steps, nearly four times as wide.** The two cyan peaks have run out to $\pm 34$, while the grey bell spreads only to about $\pm 7$: quantum width $\sigma = 27.07$, classical $\sigma = \sqrt{50} = 7.07$.
-:::
 
 ::: {.viz src="walk-spreading" preset="width" height="500"}
 **A straight line against a $\sqrt{n}$.** Width against the steps: the cyan quantum width is a straight line ($\sigma / n$ stays near $0.54$), the grey classical width is $\sqrt{n}$; at sixty steps it is $32.5$ against $7.75$. On a line the gap between them is a square, not an exponential; the exponential separation on glued trees and the bound for general graphs are in item 2 of [@rem-qsvt-walks-literature] (literature results, not formalized in this book), and the curves are the page's numbers.
@@ -194,11 +189,12 @@ In [@prop-two-axis-finite-word], each step chooses any continuous angle from $\m
    $$
 
    Note that $\mathcal{S}_L$ is the orbit of a **fixed initial state $\vv{r}_0$**, not the full $3$-parameter gate space; using $|w| \le L$ ensures monotonic nesting $\mathcal{S}_L \subseteq \mathcal{S}_{L+1}$ with $|\mathcal{S}_L| \le \sum_{j=0}^L 2^j = 2^{L+1} - 1$ (with collisions reducing the count).
-3. **The Euclidean convex hull $P_L = \operatorname{conv}(\mathcal{S}_L)$ and geodesic polytopes**: The Euclidean convex hull $P_L = \operatorname{conv}(\mathcal{S}_L) \subset \mathbb{R}^3$ is a finite-vertex convex polytope inscribed in the unit ball. For small $L$ ($L = 0, 1, 2$), $P_L$ degenerates to a point, segment, or planar polygon (do not claim $P_L$ is $3$-dimensional for every $L$!). When $P_L$ is $3$-dimensional, its facets are **flat Euclidean chordal polygons** (never call them intrinsically flat faces of $S^2$). When $0 \in \operatorname{int}(P_L)$, radially projecting the edges and faces of $P_L$ onto $S^2$ yields a spherical mesh of great-circle arcs called a **geodesic polytope** — a term referring strictly to the radial projection mesh on $S^2$, while $P_L = \operatorname{conv}(\mathcal{S}_L)$ itself remains a flat-faced Euclidean polytope.
 
 ::: {.viz src="gate-word-polytope" preset="one" height="500"}
 **Length 1: a segment.** The north pole is fixed by $T$, and only $H$ carries it to $\vv{e}_x$: the two cyan points span a segment, nothing like a polytope yet. The amber target sits on $\vv{e}_x$, the word $H$ hits it exactly, and there is no magenta gap; violet marks the axes of $H$ and $T$.
 :::
+
+3. **The Euclidean convex hull $P_L = \operatorname{conv}(\mathcal{S}_L)$ and geodesic polytopes**: The Euclidean convex hull $P_L = \operatorname{conv}(\mathcal{S}_L) \subset \mathbb{R}^3$ is a finite-vertex convex polytope inscribed in the unit ball. For small $L$ ($L = 0, 1, 2$), $P_L$ degenerates to a point, segment, or planar polygon (do not claim $P_L$ is $3$-dimensional for every $L$!). When $P_L$ is $3$-dimensional, its facets are **flat Euclidean chordal polygons** (never call them intrinsically flat faces of $S^2$). When $0 \in \operatorname{int}(P_L)$, radially projecting the edges and faces of $P_L$ onto $S^2$ yields a spherical mesh of great-circle arcs called a **geodesic polytope** — a term referring strictly to the radial projection mesh on $S^2$, while $P_L = \operatorname{conv}(\mathcal{S}_L)$ itself remains a flat-faced Euclidean polytope.
 
 ::: {.viz src="gate-word-polytope" preset="six" height="500"}
 **Length 6: around the centre, projected onto the sphere.** The hull of the $19$ reachable points now holds the centre, and projecting its edges radially onto the sphere gives a mesh of cyan great-circle arcs (a geodesic polytope). The largest hole in the mesh is the empty cap circled in dashed magenta, of radius $\varepsilon_6 = 47.27^\circ$, with the amber arrow at its centre. What is drawn here is where finite gate words land on the sphere, not the polygon of the planar circle-cutting in [Chapter 21](ch21-diagonalization-and-escape.md).
@@ -347,8 +343,9 @@ Each row satisfies $0 < q \le 1$, $(2n+1)\arcsin\sqrt{r} = \pi/2$, and $2n + 1 \
 **The largest hole shrinks step by step and never closes.** The length runs from $0$ to $20$: the cyan reachable points grow denser layer by layer, and the largest empty cap circled in dashed magenta shrinks from $180^\circ$ to $\varepsilon_{20} = 9.10^\circ$, not at all at some layers; at $L = 20$ there are $971$ points, and the hole is still there. The magenta staircase beside the sphere is the covering radius $\varepsilon_L$ the page computes for each $L$ (amber at $L = 20$), with no asymptotic rate fitted; the asymptotic word length is the literature result of [@rem-solovay-kitaev-literature].
 :::
 
+With this chapter, Part IV (*Higher-Dimensional Spheres — Entanglement, Topology, and Quantum Algorithms*) is complete. Across Chapters 13 through 16, we have traced how quantum geometry rises from single spheres to bipartite correlation sectors, stabilizer subspaces, invariant-plane rotations, Fourier annihilator lattices, and finite-word inscribed polytopes $P_L$ whose positive residual $\varepsilon_L > 0$ leaves the door open to Parts V and VI — spacetime and observer complexity, incompleteness diagonal escape, and self-referential cosine fixed points (whose classical analytic and number-theoretic properties are recorded in [Chapter 24](ch24-cosine-fixed-points-and-self-reference.md), [@rem-banach-dottie-hairy-ball-literature]).
+
 ::: {.viz src="gate-word-polytope" height="560"}
 **The gate-word polytope lab.** Drag the rail to change the length $L$, drag the amber target on the sphere, or switch to the worst direction: cyan is where the $\{H, T\}$ words of length at most $L$ land, and their hull; magenta is the arc to the nearest reachable point, the radial gap and the empty cap. The green box is [@prop-two-axis-finite-word], as the continuous-axis contrast; everything else is the page's numbers.
 :::
 
-With this chapter, Part IV (*Higher-Dimensional Spheres — Entanglement, Topology, and Quantum Algorithms*) is complete. Across Chapters 13 through 16, we have traced how quantum geometry rises from single spheres to bipartite correlation sectors, stabilizer subspaces, invariant-plane rotations, Fourier annihilator lattices, and finite-word inscribed polytopes $P_L$ whose positive residual $\varepsilon_L > 0$ leaves the door open to Parts V and VI — spacetime and observer complexity, incompleteness diagonal escape, and self-referential cosine fixed points (whose classical analytic and number-theoretic properties are recorded in [Chapter 24](ch24-cosine-fixed-points-and-self-reference.md), [@rem-banach-dottie-hairy-ball-literature]).
